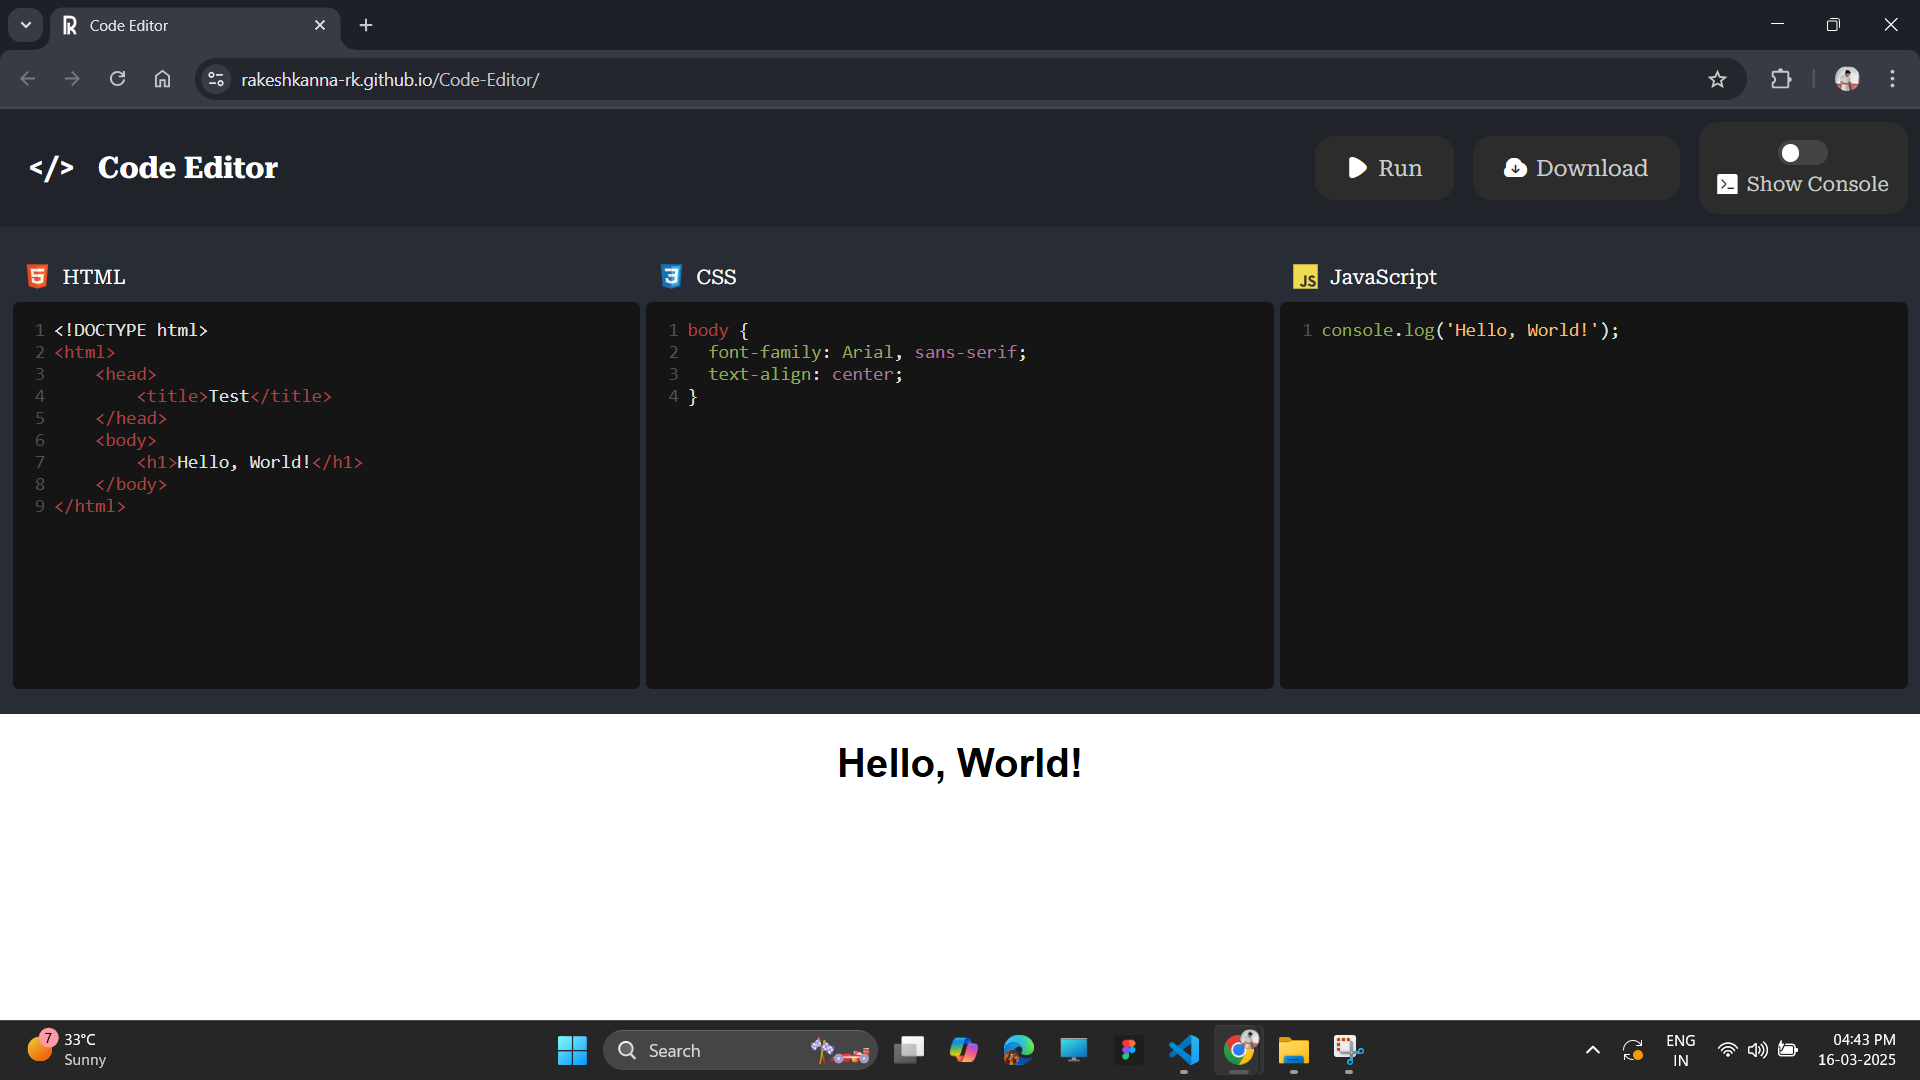
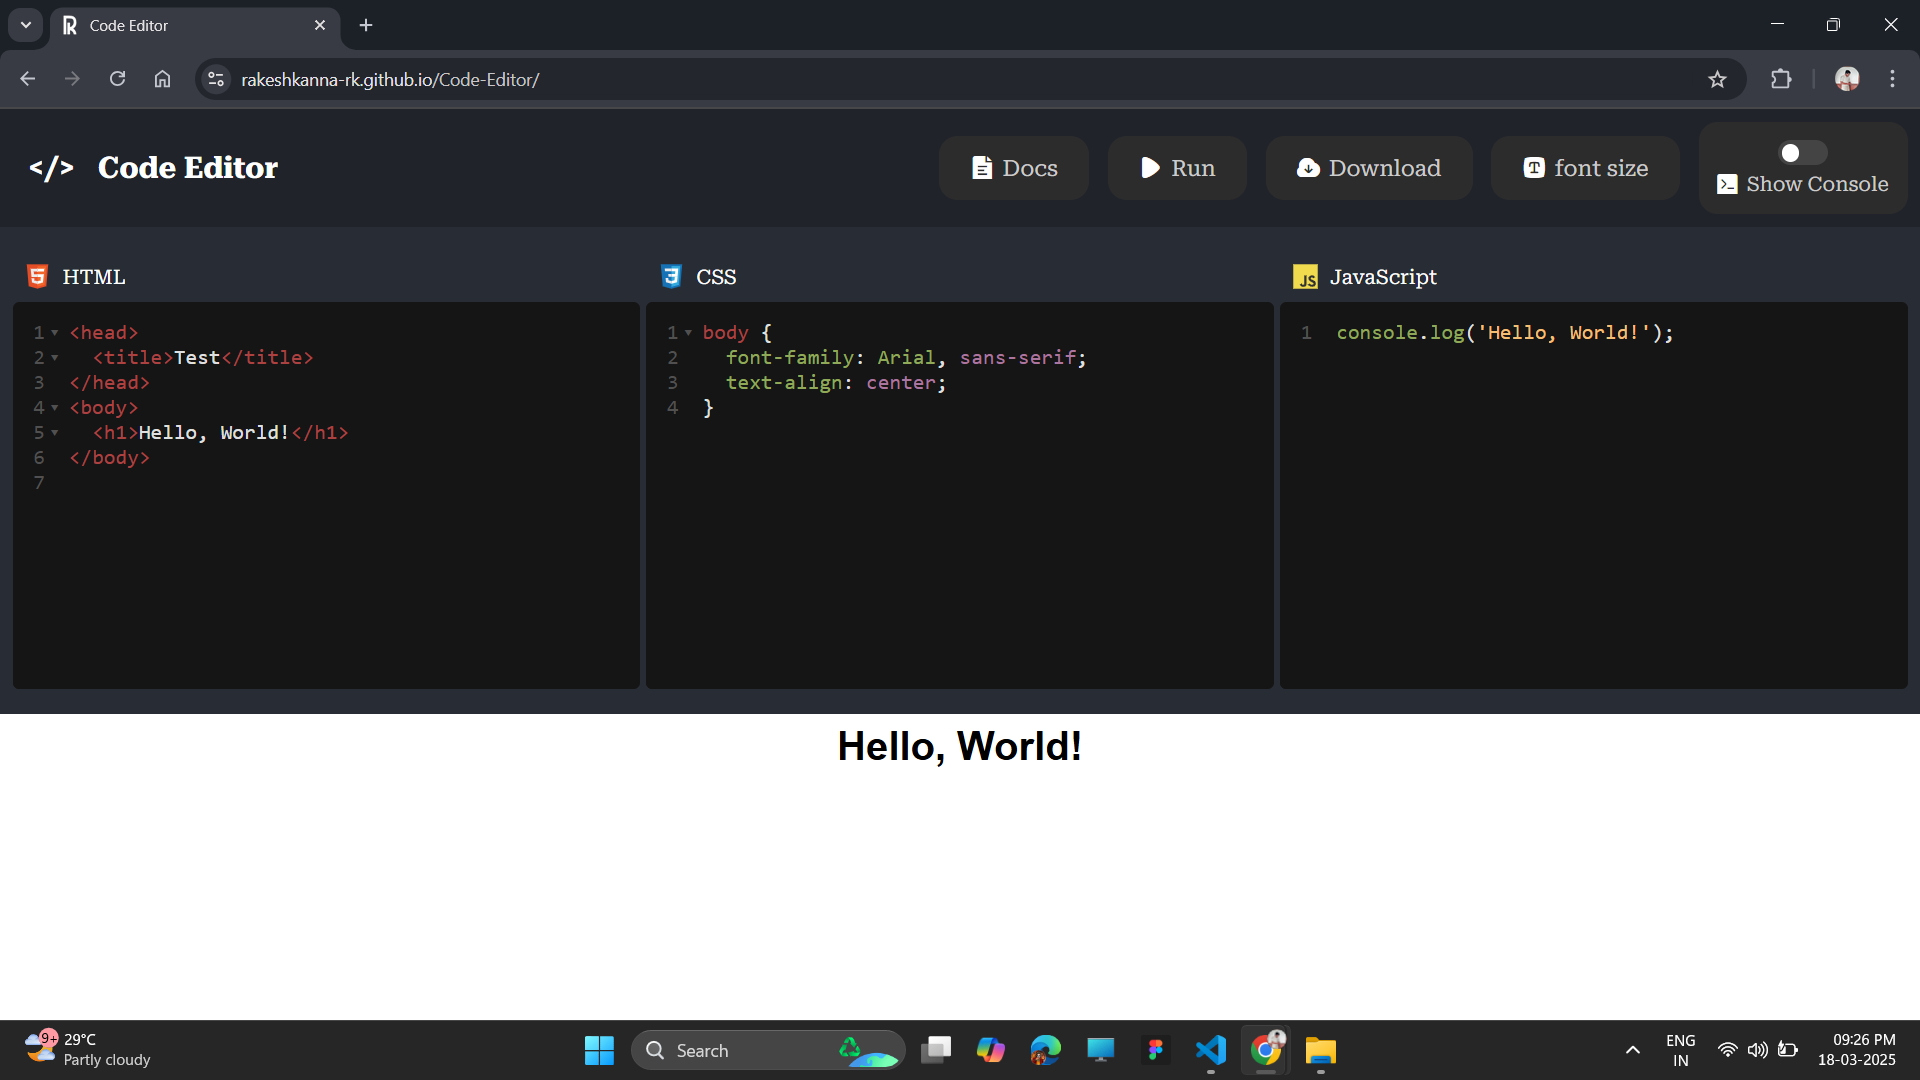
updated screenshots

diff --git a/docs/index.html b/docs/index.html
@@ -30,6 +30,7 @@
 
       <h2>Features</h2>
       <ul>
+          <li><strong>Multi-Language Support</strong> Edit HTML, CSS, and JavaScript in separate panels.</li>
           <li><strong>Syntax Highlighting:</strong> Uses CodeMirror for enhanced readability and an improved coding experience.</li>
           <li><strong>Console Panel:</strong> View JavaScript console output, warnings, and errors directly within the editor.</li>
           <li><strong>Download Code:</strong> Save your entire project as a single HTML file with embedded CSS and JavaScript.</li>

diff --git a/404.html b/404.html
@@ -6,7 +6,6 @@
     <title>404 - Page Not Found</title>
     <link rel="stylesheet" href="css_components/root.css" />
     <style>
-
       body {
         display: flex;
         flex-direction: column;

diff --git a/README.md b/README.md
@@ -9,18 +9,21 @@ This Code Editor is a web-based tool designed for an intuitive coding experience
 ## Features
 
 - **Multi-Language Support**: Edit HTML, CSS, and JavaScript in separate panels.
-- **Real-Time Output**: Instantly preview your code execution within an iframe.
-- **Syntax Highlighting**: Uses CodeMirror for better readability and efficient editing.
-- **Console Logging**: Displays JavaScript `console.log()` outputs and errors in a built-in console.
-- **Download Code**: Save your written code as an HTML file for offline use.
-- **Toggle Console**: Show or hide the JavaScript console as needed.
+- **Syntax Highlighting**: Uses CodeMirror for enhanced readability and an improved coding experience.
+- **Console Panel**: View JavaScript console output, warnings, and errors directly within the editor.
+- **Download Code**: Save your entire project as a single HTML file with embedded CSS and JavaScript.
+- **Collapsible Sections**: Fold/unfold lines for better organization and focus.
+- **Auto-closing Tags & Brackets**: Automatically completes tags, brackets, and quotes for faster coding.
+- **Font Size Adjuster**: Easily change the editor's font size for better readability.
+- **Unsaved Changes Alert**: Prevent accidental navigation loss by warning users about unsaved changes.
 
 ## Usage
 
-1. **Write Code**: Type in the HTML, CSS, and JavaScript panels.
-2. **Run Code**: Click the **Run** button to execute and preview the output.
-3. **View Console Output**: Toggle the **Show Console** button to view logs and errors.
-4. **Download Code**: Click **Download** to save your project as an HTML file.
+1. Write your HTML, CSS, and JavaScript in the respective code editor panels.
+2. Click the `Run` button to execute and preview your code in real-time.
+3. Check the console panel for JavaScript output, warnings, or errors.
+4. Use the `Download` button to save your code as a standalone HTML file.
+5. Adjust the font size using the settings button to optimize your coding experience.
 
 ## Screenshots
 
